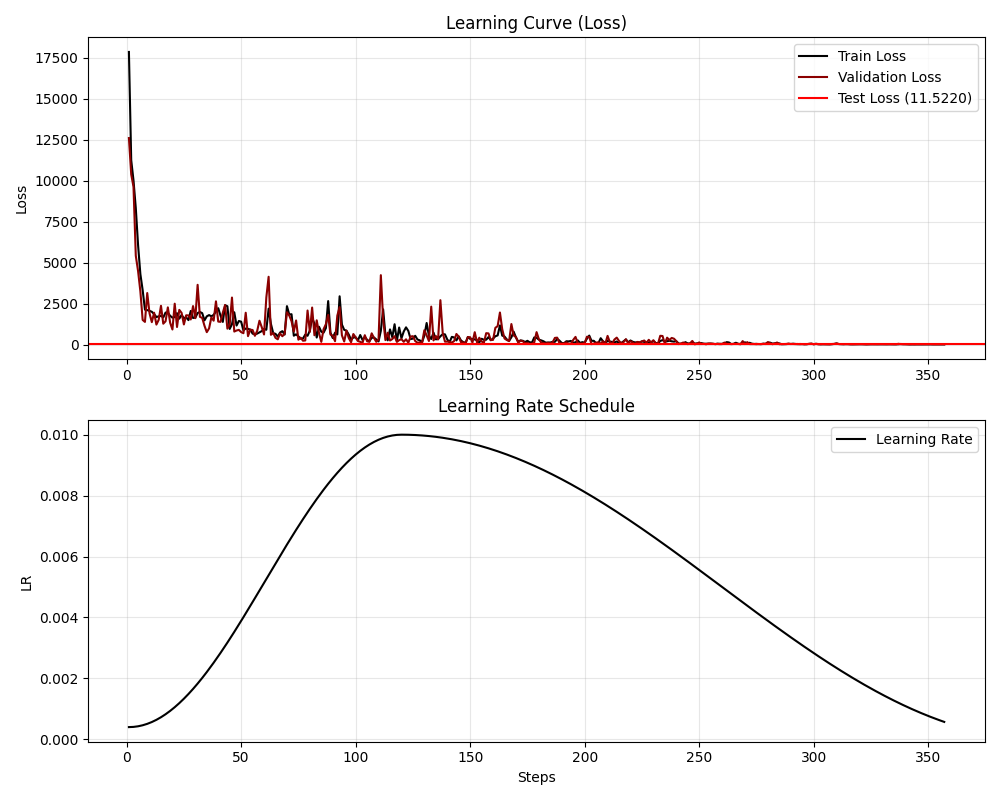
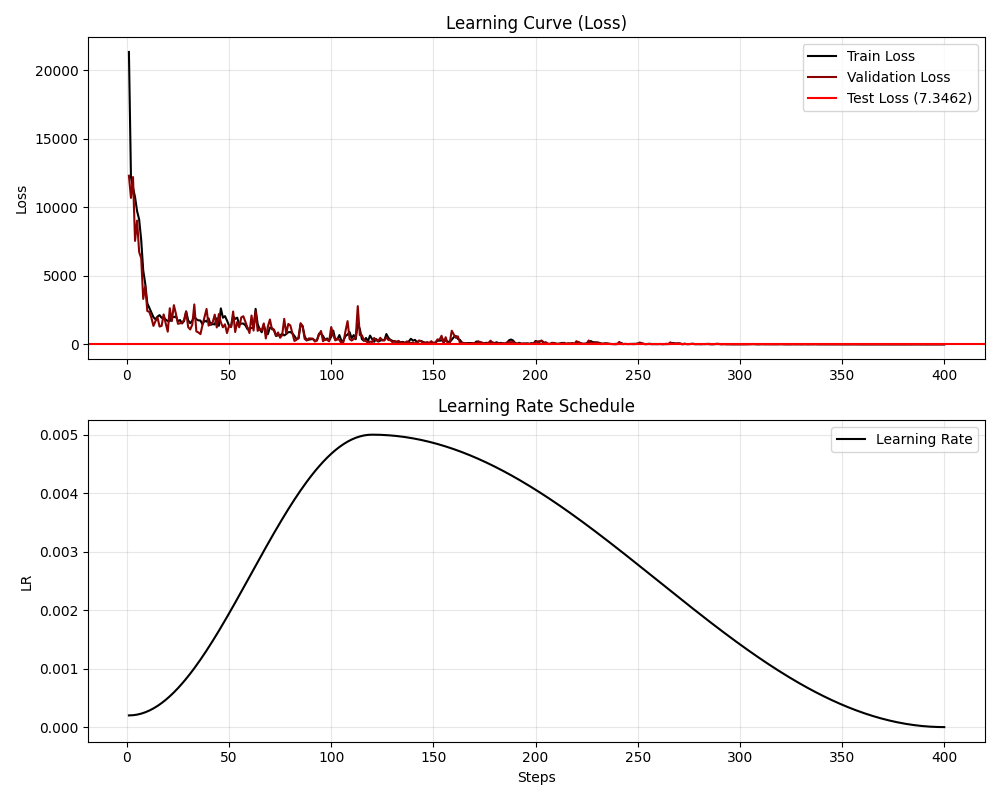
Fixed functionnal constraint (PINN loss)

diff --git a/src/main.py b/src/main.py
@@ -118,7 +118,7 @@ def main():
         (ThresholdedWeightedMSE(precision=1e-8), 1.),
         (MonotonyLoss(1, increasing=False), 1.),
         (MonotonyLoss(0, increasing=True), 1.),
-        (ConvexityLoss(0, convex=True), 1.),
+        (ConvexityLoss(1, convex=True), 1.),
     ])
 
     # model = Linear(bias=False, device=device)
@@ -129,7 +129,7 @@ def main():
 
     optimizer = torch.optim.AdamW(
         model.parameters(),
-        lr=10e-4,
+        lr=5e-4,
         weight_decay=1e-4,
         betas=(0.9, 0.999),
     )
@@ -137,7 +137,7 @@ def main():
     scheduler = None
     scheduler = torch.optim.lr_scheduler.OneCycleLR(
          optimizer,
-         max_lr=10e-3, 
+         max_lr=5e-3, 
          steps_per_epoch=1,
          epochs=max_epoch,
          pct_start=0.3,
